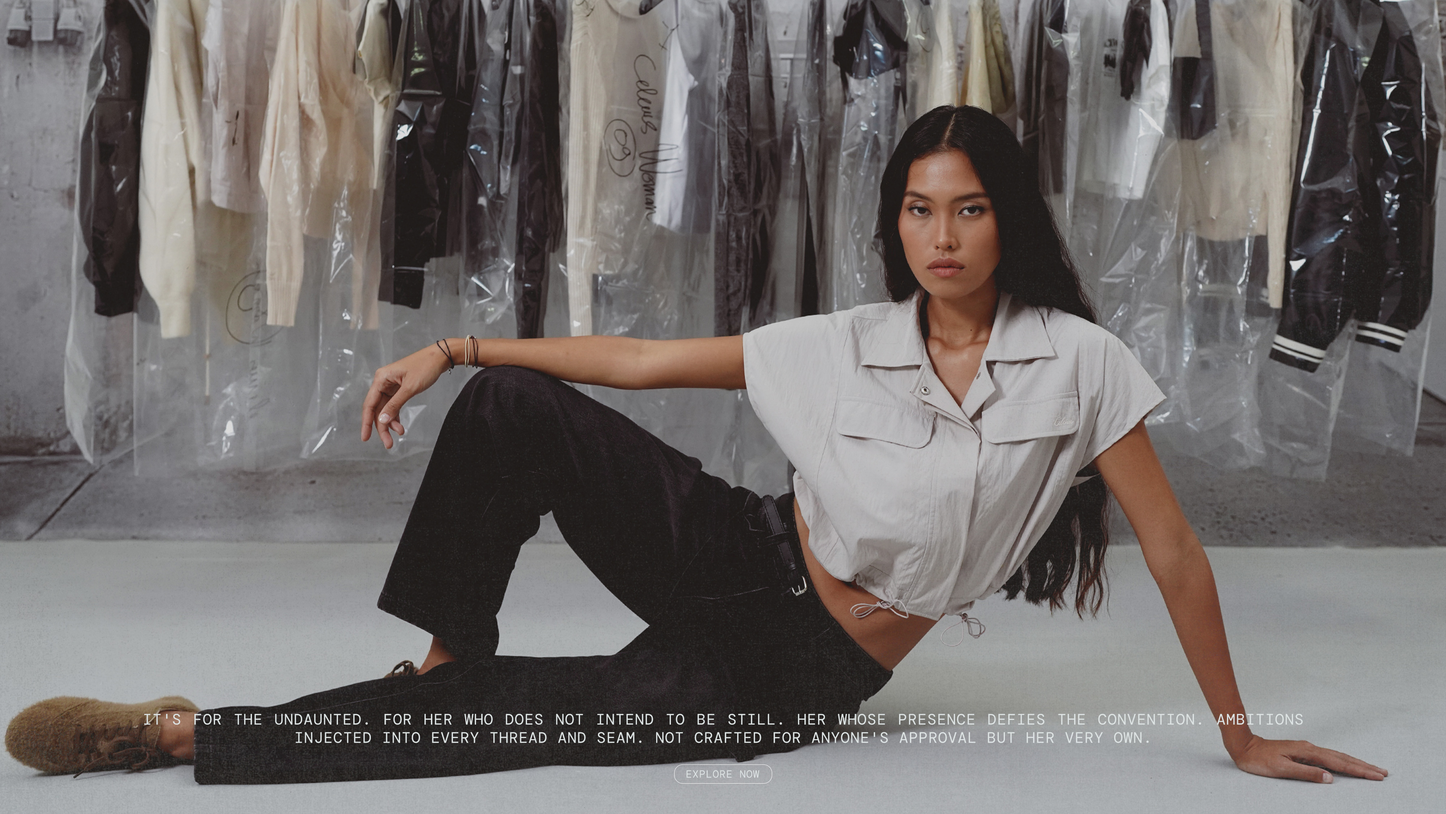
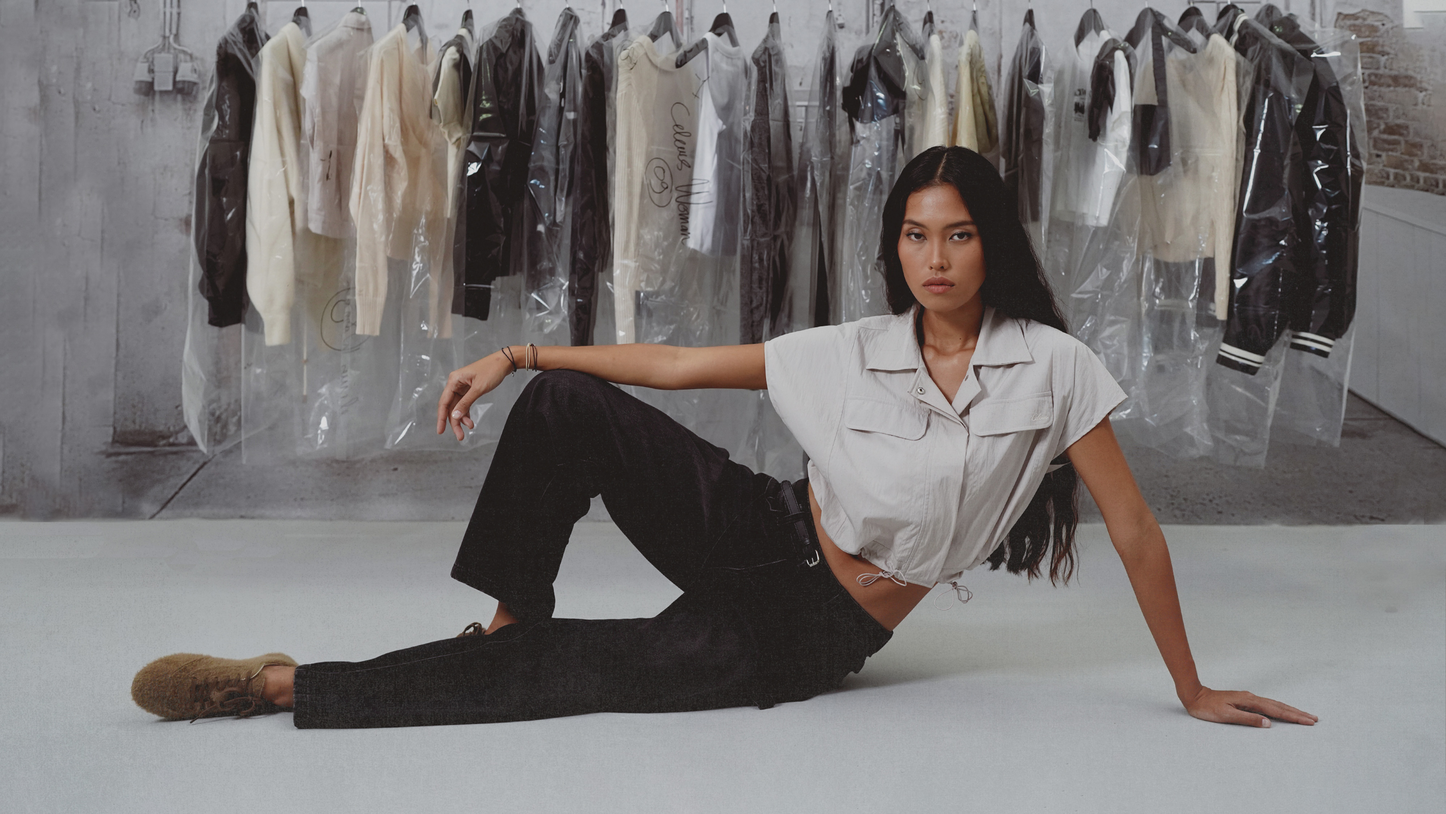
update-new

diff --git a/src/pages/Home.jsx b/src/pages/Home.jsx
@@ -1,6 +1,6 @@
 import React, { useEffect, useState } from "react";
 import { Layouts } from "../layouts/Layouts";
-import desktop from "../assets/img/banner.jpg";
+import desktop from "../assets/img/desktop.jpg";
 import mobile from "../assets/img/main-mobile.jpg";
 import textDesktop from "../assets/img/text-desktop.png";
 import textMobile from "../assets/img/text-mobile.png";
@@ -71,7 +71,7 @@ export const Home = () => {
         <motion.img
           src={textDesktop}
           alt="Social Chic Desktop Text"
-          className="hidden md:hidden w-full absolute bottom-16 px-32"
+          className="hidden md:block w-full absolute bottom-20 px-36"
           initial={{ opacity: 0 }}
           animate={{ opacity: 1 }}
           transition={{ duration: 3 }}
@@ -91,7 +91,7 @@ export const Home = () => {
         <motion.img
           src={button}
           alt="Social Chic Button"
-          className="w-44 md:hidden absolute bottom-10 md:bottom-6 px-12 cursor-pointer left-0 right-0 mx-auto"
+          className="w-44 md:w-52 absolute bottom-10 md:bottom-10 px-12 cursor-pointer left-0 right-0 mx-auto"
           initial={{ opacity: 0 }}
           animate={{ opacity: 1 }}
           transition={{ duration: 3 }}
